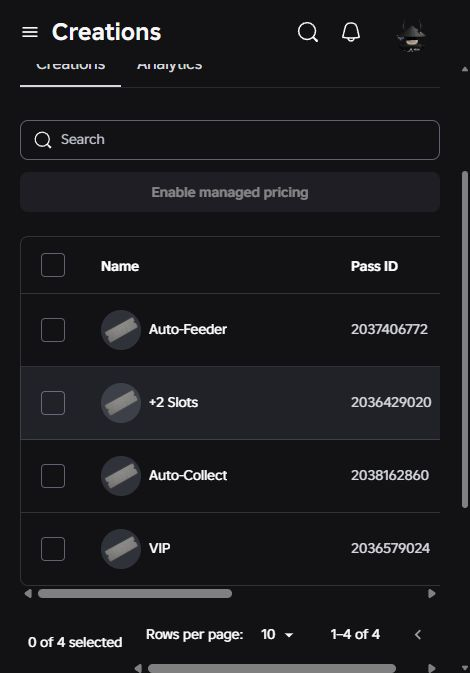
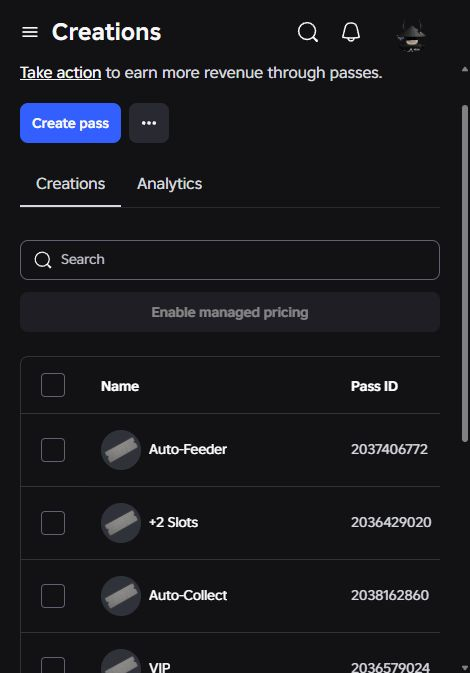
Preserve extra slot progress during ownership checks

diff --git a/docs/Gamepasses-and-Saving-2026-10-19.md b/docs/Gamepasses-and-Saving-2026-10-19.md
@@ -17,6 +17,8 @@ All four passes were created and enabled for sale. The legacy hidden CoinBoost I
 
 Profiles acquire an atomic DataStore session lease. Saves require the same lease, retry transient failures, and release ownership when leaving or shutting down. This prevents an older server from overwriting progress after a new server acquires the profile. Concurrent joins share one profile load.
 
+Saved assignments in the two extra slots survive delayed or failed ownership checks. Those slots stay inactive until ownership is confirmed, then their saved monsters and eggs are rendered in place.
+
 When Studio cannot access DataStore services, it can run a temporary session with saving disabled and a warning. Temporary progress is never written to the saved profile. Live servers, malformed records and active session conflicts still reject unsafe loads. Paid product prompts are blocked when saving is unavailable.
 
 After syncing the source, stop Play and start it again. A Studio temporary session is suitable for gameplay testing; it does not prove cloud persistence. To validate real persistence, use the published experience and verify the same coins, monsters, eggs and equipped gear after leaving and rejoining.
@@ -24,6 +26,7 @@ After syncing the source, stop Play and start it again. A Studio temporary sessi
 ## Validation
 
 - Independent review and regression checks passed: 47 persistence checks, 20 gamepass checks, receipt processing and 77 save-queue checks.
+- Extra-slot rejoin coverage includes 30 checks for delayed ownership, failed requests, preserved assignments and inactive locked slots. The saving-warning renderer has three checks.
 - All 33 production Luau files compiled successfully. Rojo build passed.
 - A separate build of the selected commit files over HEAD passed using the repository's build script.
 - Two full-suite failures reproduce on the previous local baseline: approved geometry and an outdated gear UI caption assertion.
